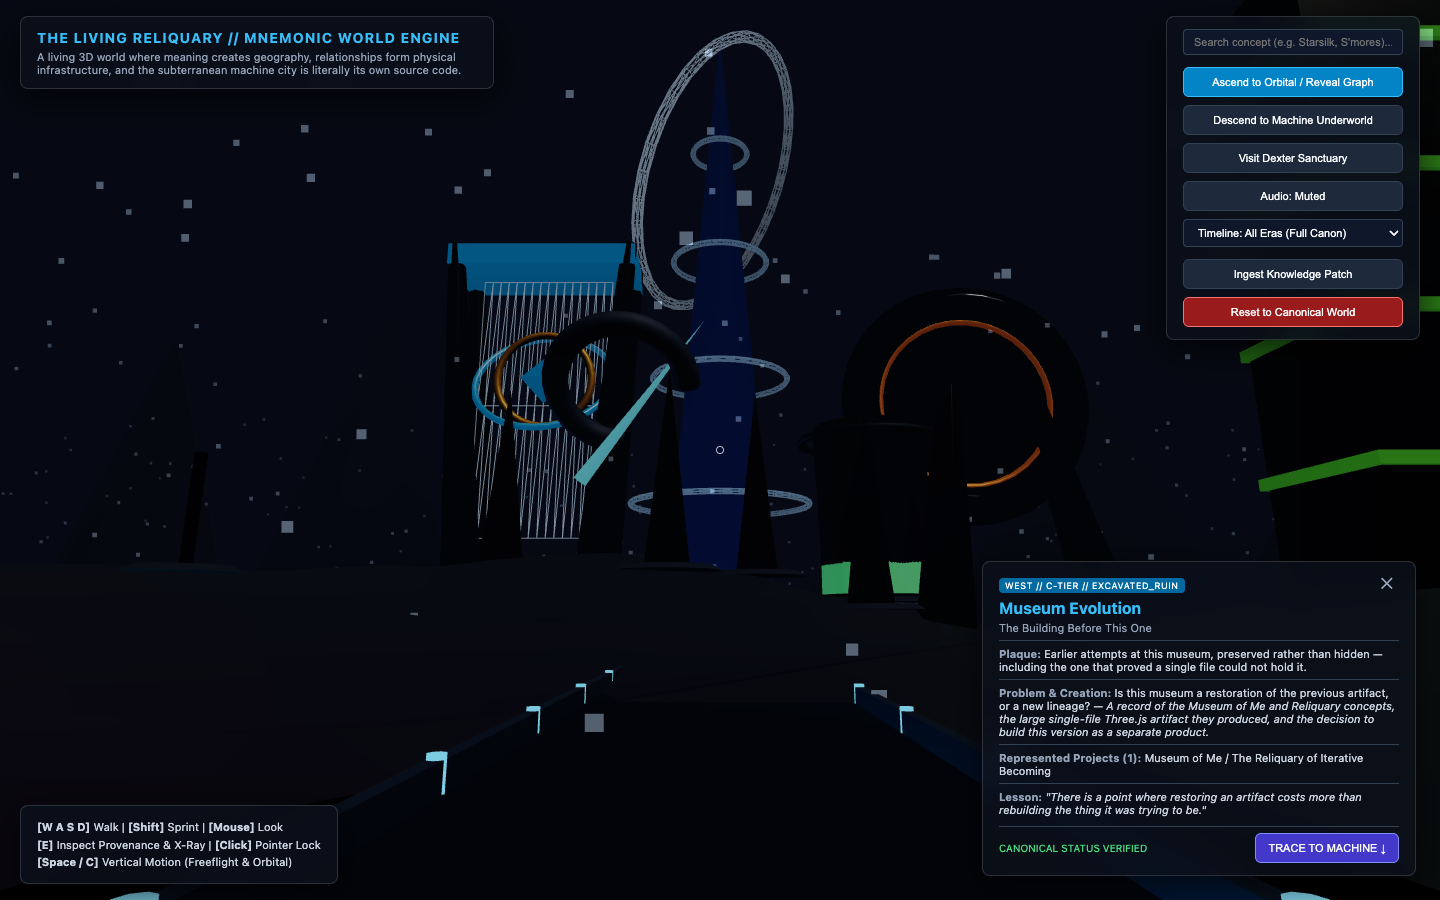
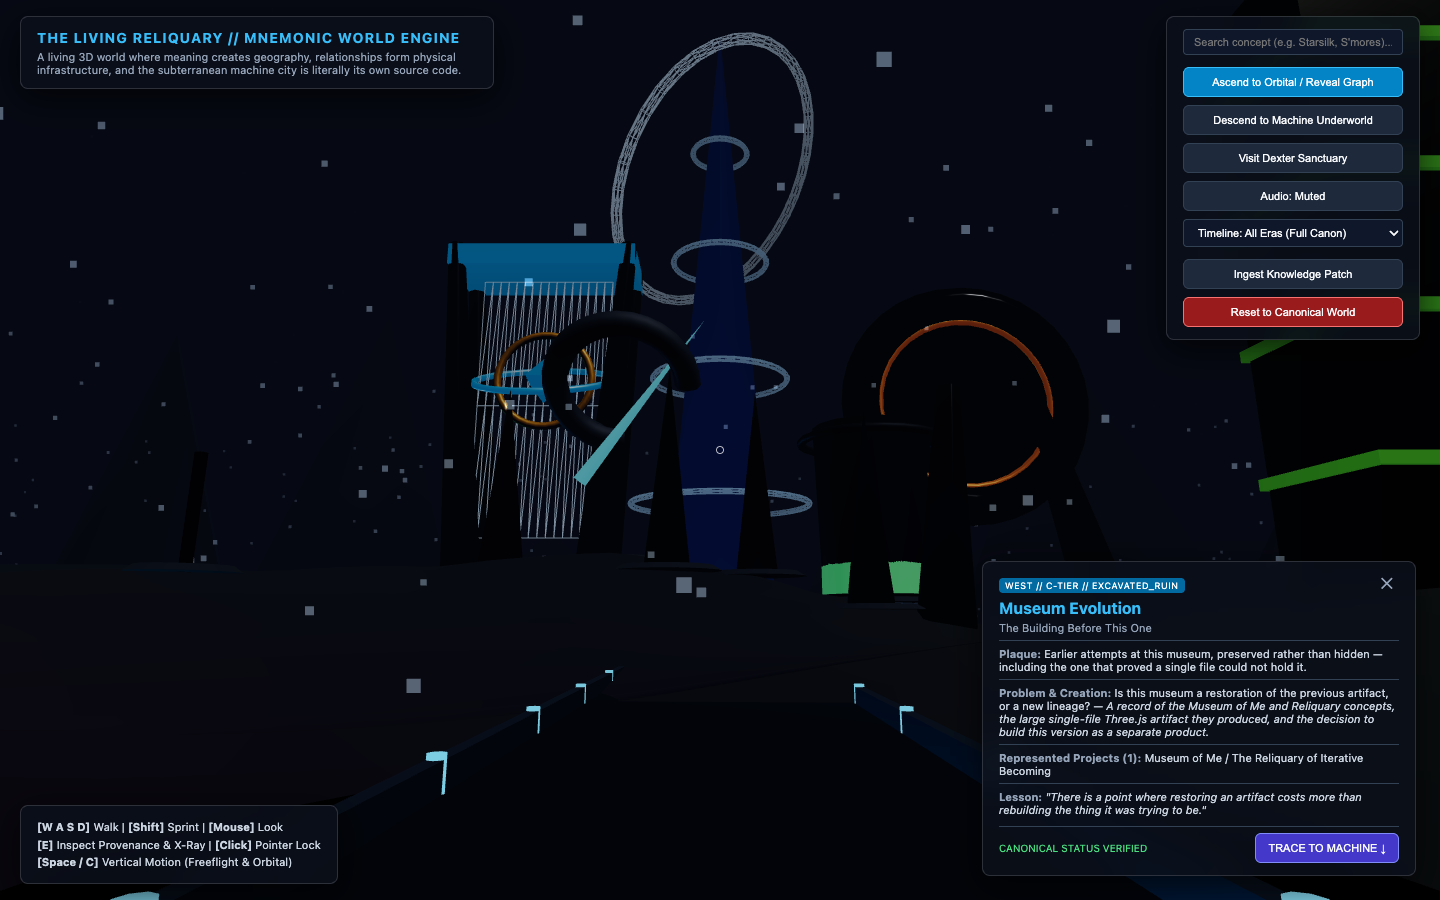
refine(loop-06): animated traveling data bits along subterranean AST conduits

diff --git a/src/machine/MachineCity.ts b/src/machine/MachineCity.ts
@@ -129,6 +129,14 @@ export class MachineCity {
       const line = new THREE.Line(geo, mat);
       this.group.add(line);
       this.conduitLines.push(line);
+
+      // Traveling data bit along the conduit bus
+      const bitGeo = new THREE.SphereGeometry(0.28, 6, 6);
+      const bitMat = new THREE.MeshBasicMaterial({ color: 0x69f0ae });
+      const bit = new THREE.Mesh(bitGeo, bitMat);
+      bit.userData = { p1, mid, p2, speed: 0.2 + (p1.x % 3) * 0.05, offset: Math.random() };
+      bit.name = 'conduit_data_bit';
+      this.group.add(bit);
     }
   }
 
@@ -181,6 +189,19 @@ export class MachineCity {
     const pulse = 0.3 + 0.2 * Math.sin(time * 2);
     for (const line of this.conduitLines) {
       (line.material as THREE.LineBasicMaterial).opacity = pulse;
+    }
+
+    // Animate traveling data bits along orthogonal bus conduits
+    for (const child of this.group.children) {
+      if (child.name === 'conduit_data_bit') {
+        const u = ((time * child.userData.speed + child.userData.offset) % 1.0);
+        const { p1, mid, p2 } = child.userData;
+        if (u < 0.5) {
+          child.position.lerpVectors(p1, mid, u * 2.0);
+        } else {
+          child.position.lerpVectors(mid, p2, (u - 0.5) * 2.0);
+        }
+      }
     }
   }
 }
